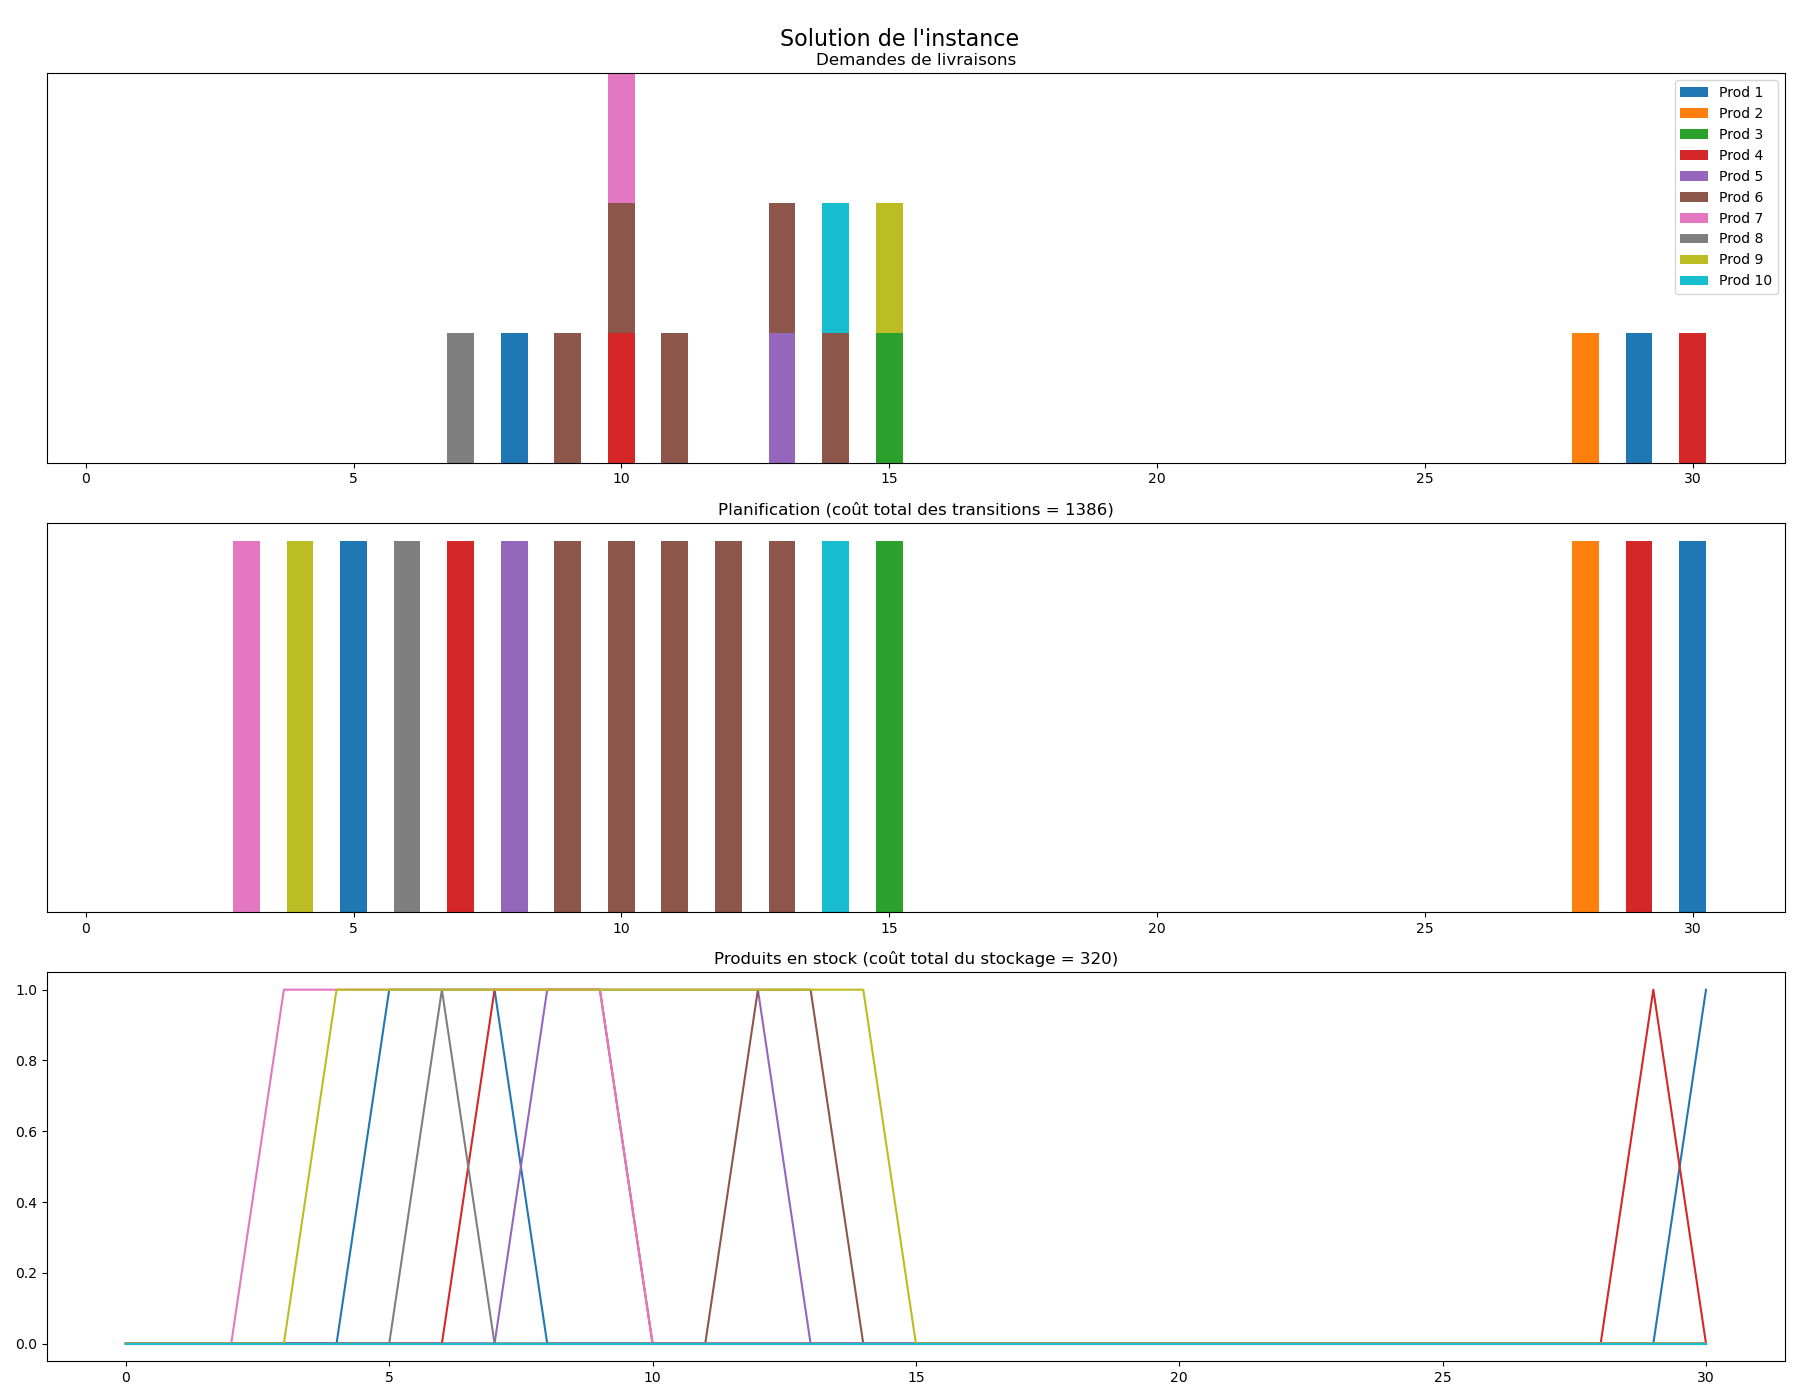
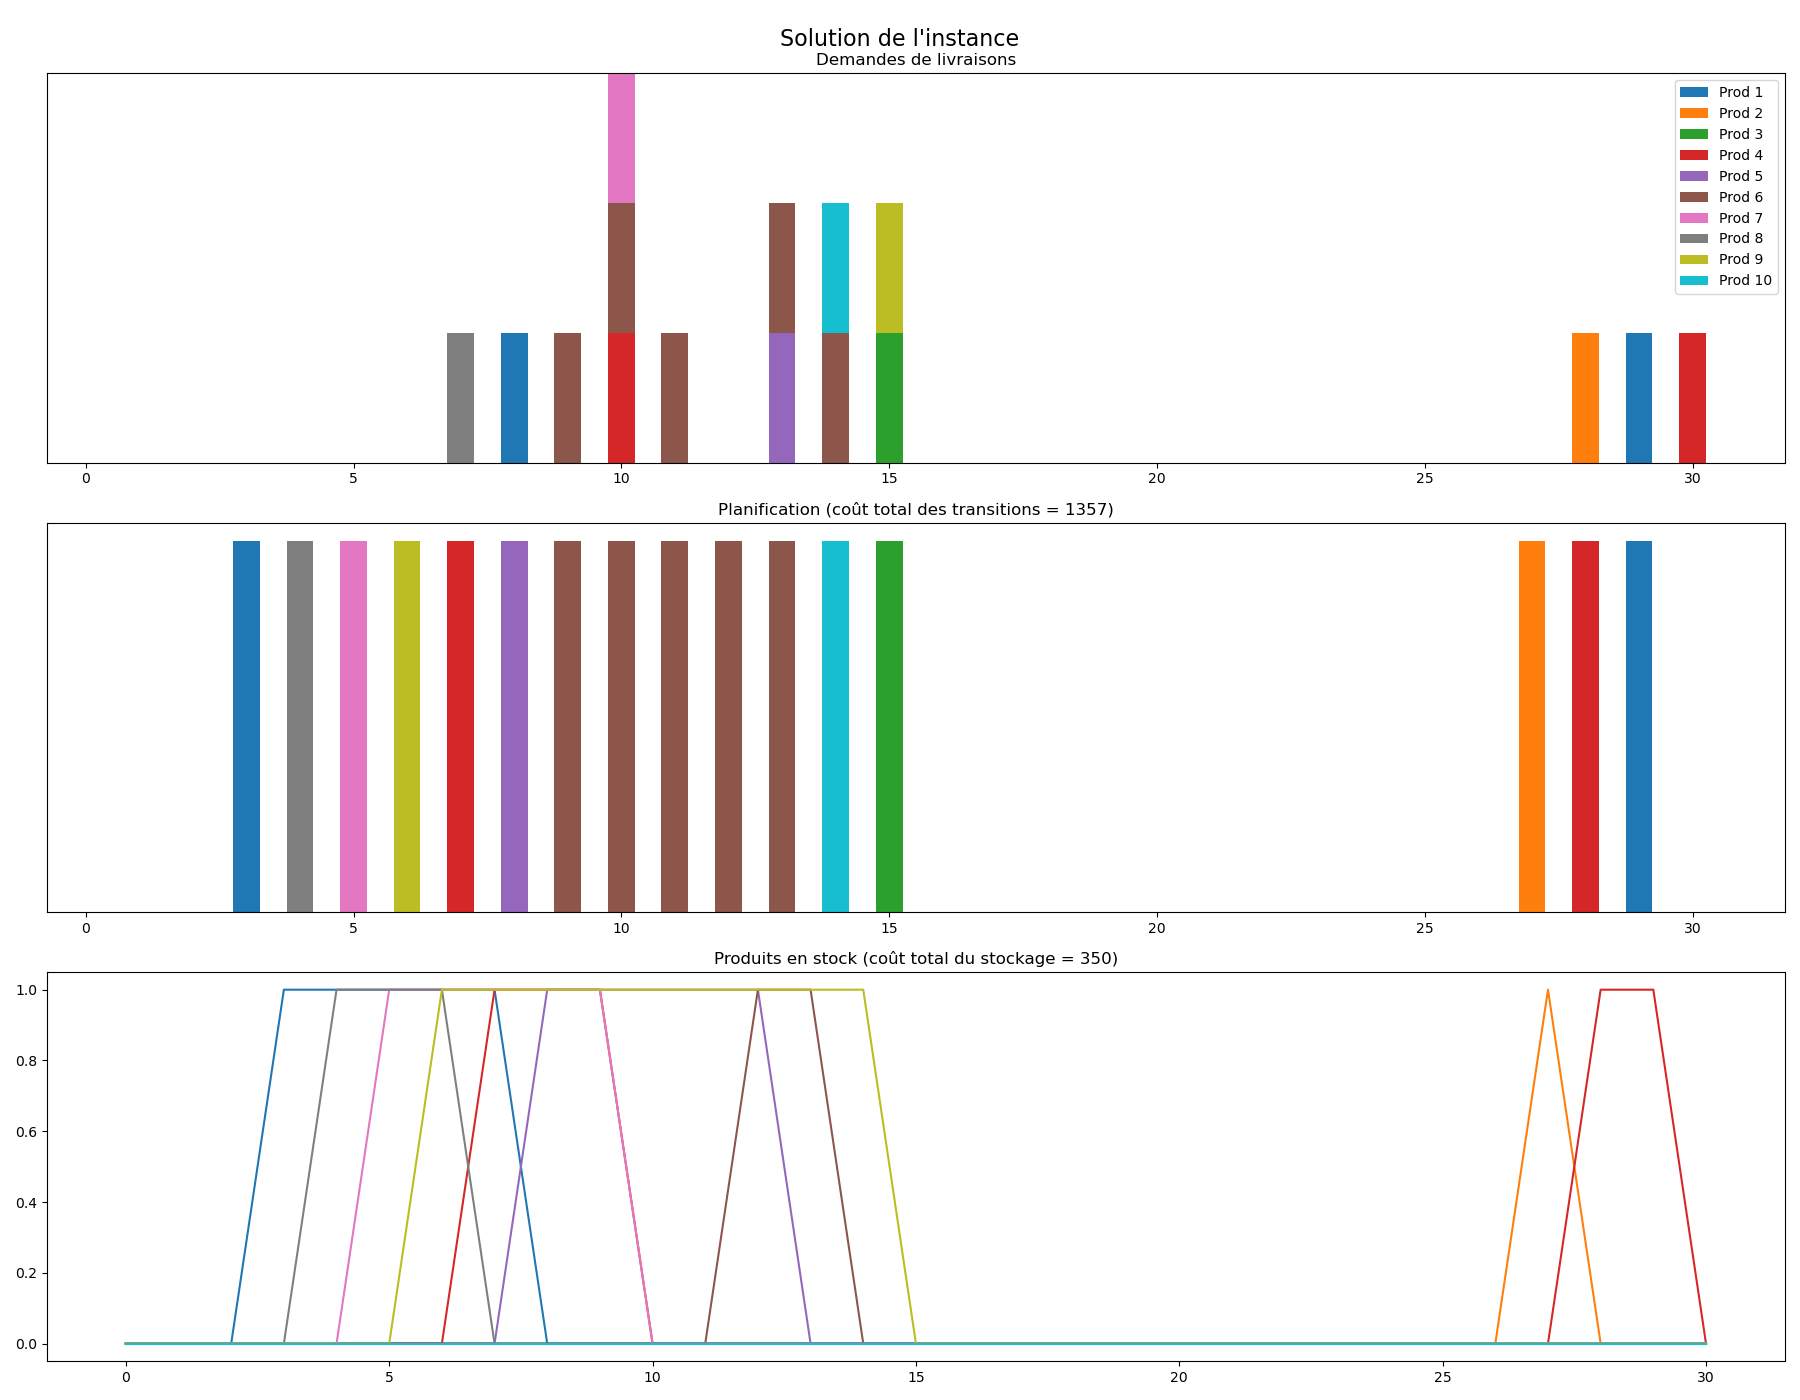
skewed VNS + clean code + final solutions

diff --git a/Devoir3_INF6102_H25/solver_advanced.py b/Devoir3_INF6102_H25/solver_advanced.py
@@ -92,7 +92,7 @@ class SolverAdvanced :
             self.seq = self.seq[:insert_pos] + subseq + self.seq[insert_pos:]
             self.cost = best_move_cost
             self.compute_stocks()
-            print(f"Best Moved products {subseq} from day {i} to day {j}, k={k}")
+            # print(f"Best Moved products {subseq} from day {i} to day {j}, k={k}")
 
     def best_or_k_opt_move(self, k):
         """
@@ -139,7 +139,7 @@ class SolverAdvanced :
             self.seq = self.seq[:insert_pos] + subseq + self.seq[insert_pos:]
             self.cost = best_move_cost
             self.compute_stocks()
-            print(f"Best Moved products {subseq} from day {i} to day {j}, k={k}")
+            # print(f"Best Moved products {subseq} from day {i} to day {j}, k={k}")
 
     def first_or_opt_move_1_pop_insert(self):
         """
@@ -179,7 +179,7 @@ class SolverAdvanced :
             self.seq.insert(j, product)
             self.cost = best_move_cost
             self.compute_stocks()
-            print(f"Moved product {product} from day {i} to day {j}, pop-insert")
+            # print(f"Moved product {product} from day {i} to day {j}, pop-insert")
 
     def best_or_opt_move_1_pop_insert(self):
         """
@@ -217,7 +217,7 @@ class SolverAdvanced :
             self.seq.insert(j, product)
             self.cost = best_move_cost
             self.compute_stocks()
-            print(f"Best Moved product {product} from day {i} to day {j}, pop-insert")
+            # print(f"Best Moved product {product} from day {i} to day {j}, pop-insert")
 
     def first_or_opt_move_1_insert_pop(self):
         """
@@ -275,7 +275,7 @@ class SolverAdvanced :
 
             self.cost = best_move_cost
             self.compute_stocks()
-            print(f"Moved product {product} from day {i} to day {j}, insert-pop")
+            # print(f"Moved product {product} from day {i} to day {j}, insert-pop")
 
     def best_or_opt_move_1_insert_pop(self):
         """
@@ -327,76 +327,8 @@ class SolverAdvanced :
 
             self.cost = best_move_cost
             self.compute_stocks()
-            print(f"Best Moved product {product} from day {i} to day {j}, insert-pop")
+            # print(f"Best Moved product {product} from day {i} to day {j}, insert-pop")
 
-    def first_2_opt_swap(self):
-        """
-        Best 2-opt swap local search
-        """
-        days = [i for i in range(self.J)]
-        random.shuffle(days)
-
-        best_swap = None
-        best_swap_cost = 1e10
-        for j1 in days:
-            for j2 in days[j1+1:]:
-                product1, product2 = self.seq[j1], self.seq[j2]
-
-                if product1 == product2:
-                    continue
-                
-                new_cost = self.test_swap(min(j1, j2), max(j1, j2))
-                if not new_cost:
-                    continue
-                
-                if new_cost < self.cost:
-                    best_swap = (j1, j2)
-                    best_swap_cost = new_cost
-                    break
-            if best_swap:
-                break
-
-        if best_swap:
-            j1, j2 = best_swap
-            product1 = self.seq[j1]
-            product2 = self.seq[j2]
-            self.seq[j1] = product2
-            self.seq[j2] = product1
-            self.cost = best_swap_cost # Updates cost
-            self.compute_stocks()   # Updates stocks
-            print(f"Swapped Day:{j1} and Day:{j2} for products:{product1} and {product2}")
-
-    def best_2_opt_swap(self):
-        """
-        Best 2-opt swap local search
-        """
-        best_swap = None
-        best_swap_cost = 1e10
-
-        for j1 in range(self.J) :
-            for j2 in range(j1+1, self.J) :
-                product1, product2 = self.seq[j1], self.seq[j2]
-
-                if product1 == product2:
-                    continue
-
-                new_cost = self.test_swap(j1, j2)
-                if not new_cost:
-                    continue
-                
-                if new_cost < best_swap_cost:
-                    best_swap = (j1, j2)
-                    best_swap_cost = new_cost
-
-        if best_swap :
-            j1, j2 = best_swap
-            product1 = self.seq[j1]
-            product2 = self.seq[j2]
-            self.seq[j1] = product2
-            self.seq[j2] = product1
-            self.cost = best_swap_cost # Updates cost
-            self.compute_stocks()   # Updates stocks
-            print(f"Swapped Best Day:{j1} and Day:{j2} for products:{product1} and {product2}")
 
     def solve_VND(self):
         """
@@ -430,7 +362,41 @@ class SolverAdvanced :
             if self.cost < self.best_cost:
                 self.best_cost = self.cost
                 self.best_seq = self.seq[:]
-                print(f"New best cost: {self.best_cost}\n")
+                # print(f"New best cost: {self.best_cost}\n")
+
+    def skewed_VNS(self, alpha) :
+            """
+            Skewed version of the VNS. Is quite slow so does not perform well
+            Hill-climbing instead of VND in the loop
+            """
+            neighborhoods_without_improvement = 0
+            NB_NEIGHBORHOODS = 8
+            while neighborhoods_without_improvement < NB_NEIGHBORHOODS and time.time() < self.timeout_time:
+                previous_seq = self.seq[:]
+                prev_cost = self.cost
+                # Random selection of a neighbor
+                if neighborhoods_without_improvement == 0 :
+                    self.first_or_opt_move_1_pop_insert()
+                elif neighborhoods_without_improvement == 1 :
+                    self.first_or_opt_move_1_insert_pop()
+                else : 
+                    k = neighborhoods_without_improvement
+                    self.first_or_k_opt_move(k)
+
+                # Hill climbing
+                if neighborhoods_without_improvement == 0 :
+                    self.solve_move_k(1)
+                else :
+                    self.solve_move_k(neighborhoods_without_improvement)
+
+                # Neighborhood change
+                if self.cost < prev_cost + alpha*(prev_cost - self.cost) :
+                    neighborhoods_without_improvement = 0
+                    if self.cost > prev_cost :
+                        print(f"Mauvaise solution acceptée")
+                else :
+                    self.seq = previous_seq[:]
+                    neighborhoods_without_improvement += 1
 
     def solve_move_1(self):
         """
@@ -446,7 +412,7 @@ class SolverAdvanced :
             if self.cost < self.best_cost:
                 self.best_cost = self.cost
                 self.best_seq = self.seq[:]
-                print(f"New best cost: {self.best_cost}")
+                # print(f"New best cost: {self.best_cost}")
 
     def solve_move_k(self, k):
         """
@@ -467,51 +433,8 @@ class SolverAdvanced :
             if self.cost < self.best_cost:
                 self.best_cost = self.cost
                 self.best_seq = self.seq[:]
-                print(f"New best cost: {self.best_cost}")
+                # print(f"New best cost: {self.best_cost}")
             
-    def solve_hill_climbing_2_opt(self) :
-        """
-        Does a hill climbing resolution using 2-opt local search
-        Gives 4.74/8 and is very fast
-        """
-        improved = True
-        already_moved = set()
-        while improved :
-            improved = False
-
-            best_swap = None
-            best_swap_cost = 1e10
-
-            for j1 in range(self.J) :
-                for j2 in range(j1+1, self.J) :
-                    product1, product2 = self.seq[j1], self.seq[j2]
-
-                    # If it's the same product or nothing is produced, continue
-                    if j1 == j2 or product1 == product2 or product1 == -1 or product2 == -1 :
-                        continue
-
-                    new_cost = self.test_swap(j1, j2)
-                    if not new_cost :
-                        continue
-                    
-                    if new_cost < best_swap_cost and j1 not in already_moved :
-                        best_swap = (j1, j2)
-                        best_swap_cost = new_cost
-
-            if best_swap :
-                j1, j2 = best_swap
-                product1 = self.seq[j1]
-                product2 = self.seq[j2]
-                self.seq[j1] = product2
-                self.seq[j2] = product1
-                self.cost = best_swap_cost # Updates cost
-                self.compute_stocks()   # Updates stocks
-                print(f"Day {j1} and day {j2} swapped")
-                already_moved.add(j1)
-                improved = True
-
-            self.best_seq = self.seq
-            self.best_cost = self.cost
 
     def set_initial_seq(self, seq):
         self.seq = seq
@@ -608,94 +531,6 @@ class SolverAdvanced :
             
         return best_product
 
-    def calculate_delta_holding_cost(self, i, j) :
-        """
-        Compute the change in holding cost when moving the product at index i to index j.
-        """
-        if i == j:
-            return 0
-
-        seq_before = self.seq
-        seq_after = seq_before[:]
-        product = seq_after.pop(i)
-        seq_after.insert(j, product)
-        idx_start = min(i, j)
-        idx_end = max(i, j)
-
-        # Calculate delta holding cost
-        holding_cost_before = 0
-        holding_cost_after = 0
-
-        for c in range(self.C):
-            stock_before = 0
-            stock_after = 0
-            for day in range(idx_start, idx_end+1):
-                if seq_before[day] == c:
-                    stock_before += 1
-                if seq_after[day] == c:
-                    stock_after += 1
-                if self.instance.order(day, c):
-                    stock_before -= 1
-                    stock_after -= 1
-                holding_cost_before += stock_before
-                holding_cost_after += stock_after 
-
-        delta_holding = self.H * (holding_cost_after - holding_cost_before)
-
-        return delta_holding
-    
-    def calculate_delta_transition_costs(self, i, j) :
-        """
-        DOES NOT WORK
-        """
-        if i == j:
-            return 0
-
-        seq = self.seq[:]
-        product = seq[i]
-
-        old_tran = 0
-        new_tran = 0
-
-        prev_i = self.get_prev_idx(self.seq, i)
-        next_i = self.get_next_idx(self.seq, i)
-        prev_j = self.get_prev_idx(self.seq, j)
-
-        if prev_i is not None:
-            old_tran += self.transition_costs[self.seq[prev_i]][product]
-        if next_i is not None:
-            old_tran += self.transition_costs[product][self.seq[next_i]]
-        if prev_j is not None :
-            old_tran += self.transition_costs[self.seq[prev_j]][self.seq[j]]
-
-        if prev_i and next_i :
-            new_tran += self.transition_costs[self.seq[prev_i]][self.seq[next_i]]
-        if prev_j is not None :
-            new_tran += self.transition_costs[self.seq[prev_j]][product]
-        new_tran += self.transition_costs[self.seq[j]][product]
-
-        return new_tran - old_tran
-    
-    def get_prev_idx(self, seq, idx):
-        """
-        For a given idx, gives the closest index before where something is produced
-        Used to compute transition costs
-        """
-        for i in range(idx - 1, -1, -1):
-            if seq[i] != -1:
-                return i
-        return None
-
-    def get_next_idx(self, seq, idx) :
-        """
-        For a given idx, gives the closest index after where something is produced
-        Used to compute transition costs
-        """
-        for i in range(idx + 1, self.J):
-            if seq[i] != -1:
-                return i
-        return None
-            
     def test_seq_stocks(self, seq) :
         """
         Checks if a sequence is valid in termes of demand
@@ -713,38 +548,6 @@ class SolverAdvanced :
                     return False
             
         return True
-
-    def test_swap(self, j1, j2) :
-        """
-        Checks if a swap between j1 and j2 is valid in terms of demand and if it improves the current solution
-        Requires that: j1 < j2
-        """
-        # Check if swap is possible in terms of demand and stocks
-        product1 = self.seq[j1]
-        product2 = self.seq[j2]
-
-        for j in range(j1, j2):
-            if product1 in self.day_demands[j]:
-                if self.stocks[product1][j] -1 < 0 :
-                    return False
-                
-        # Check if the swap improves the solution
-        current_seq = self.seq[:]
-        current_cost = self.cost
-        self.seq[j1] = product2
-        self.seq[j2] = product1
-        new_cost = self.compute_cost()
-        if new_cost >= current_cost :
-            # Go back to initial seq
-            self.seq = current_seq
-            self.cost = current_cost
-            return False
-        
-        # Go back to initial seq
-        self.seq = current_seq
-        self.cost = current_cost
-        
-        return new_cost
 
     def compute_cost(self) :
         # Compute storage cost
@@ -824,7 +627,7 @@ def solve(instance: Instance) -> Solution:
     Returns:
         Solution: A solution object initialized with an iterator on Edge object
     """
-    #TIME_LIMIT_SEC = 60
+    # TIME_LIMIT_SEC = 60
     TIME_LIMIT_SEC = get_time_limit(instance)
     TIME_LIMIT_MARGIN_SEC = 15
 
@@ -841,10 +644,6 @@ def solve(instance: Instance) -> Solution:
         #init_seq = solver.naive_solution()
         solver.set_initial_seq(init_seq)
 
-        # solver.best_seq = solver.solve_heuristic()
-        #solver.solve_move_1()
-        #solver.solve_move_k(6)
-        #solver.solve_hill_climbing_2_opt()
         solver.solve_VND()
 
         if solver.best_cost < best_seq_cost:
